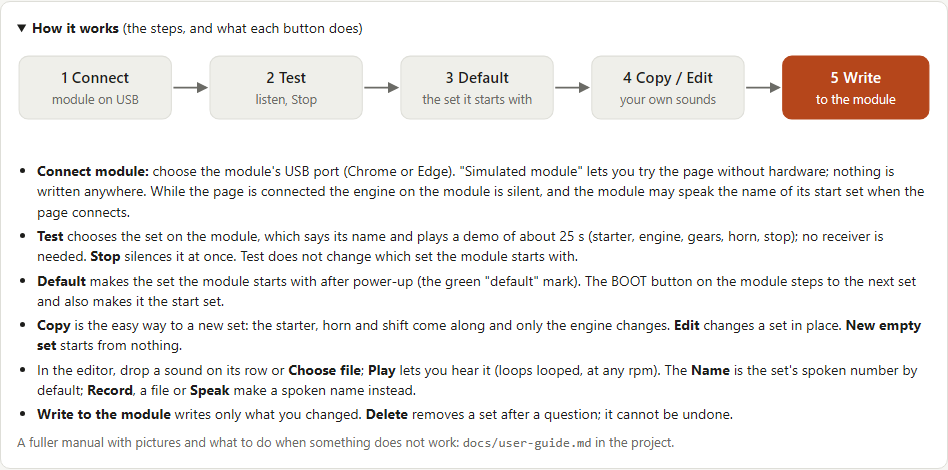
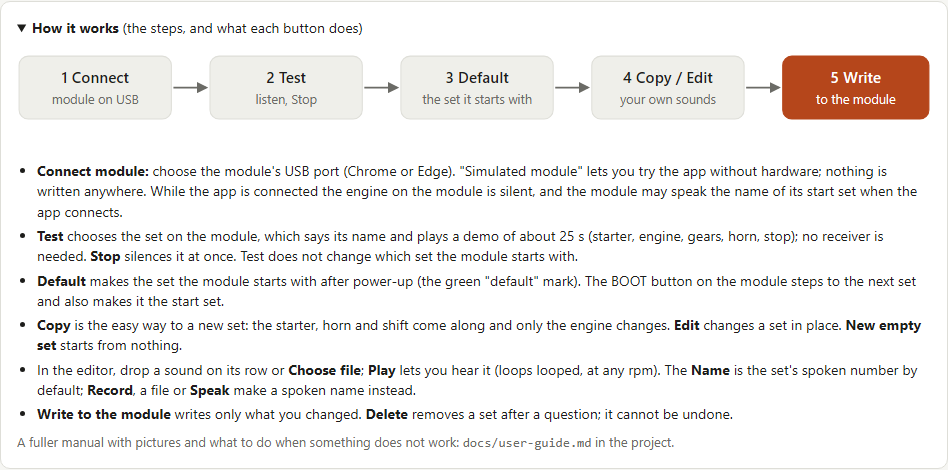
Call it the web app in the user guide and in the app's own texts

Changed region(s): [[0.2141, 0.3574, 0.9789, 0.417], [0.0306, 0.4468, 0.153, 0.4766]]

diff --git a/web/index.html b/web/index.html
@@ -81,7 +81,7 @@ details.guide li { margin-bottom: 4px; }
   <p class="lead">Sound sets for the cyberbrick_sound module: see what is on it, try one, change or add a set. Chrome or
     Edge on a computer, the module on USB.</p>
 
-  <div id="noSerial" class="notice hidden">This page needs Chrome or Edge on a computer.</div>
+  <div id="noSerial" class="notice hidden">This app needs Chrome or Edge on a computer.</div>
 
   <section>
     <div class="row">
@@ -90,7 +90,7 @@ details.guide li { margin-bottom: 4px; }
       <button id="btnDisconnect" class="hidden">Disconnect</button>
       <span id="connStatus" class="status muted">Not connected.</span>
     </div>
-    <div class="hint" style="margin-top:8px">While the page talks to the module, the engine on the module is silent; it
+    <div class="hint" style="margin-top:8px">While the app talks to the module, the engine on the module is silent; it
       comes back a few seconds after the last action.</div>
   </section>
 
@@ -110,8 +110,8 @@ details.guide li { margin-bottom: 4px; }
     </svg>
     <ul>
       <li><strong>Connect module:</strong> choose the module's USB port (Chrome or Edge). "Simulated module" lets you
-        try the page without hardware; nothing is written anywhere. While the page is connected the engine on the module
-        is silent, and the module may speak the name of its start set when the page connects.</li>
+        try the app without hardware; nothing is written anywhere. While the app is connected the engine on the module
+        is silent, and the module may speak the name of its start set when the app connects.</li>
       <li><strong>Test</strong> chooses the set on the module, which says its name and plays a demo of about 25 s
         (starter, engine, gears, horn, stop); no receiver is needed. <strong>Stop</strong> silences it at once. Test
         does not change which set the module starts with.</li>
@@ -137,7 +137,7 @@ details.guide li { margin-bottom: 4px; }
       <li><strong>Format on the module:</strong> WAV (<code>.wav</code>), PCM, 22 050 Hz, 16 bit, mono, with fixed names:
         <code>name.wav</code>, <code>start.wav</code>, <code>horn.wav</code>, <code>shift.wav</code>, and for a sample set
         <code>idle.wav</code> and <code>loaded.wav</code>, plus <code>set.json</code> with the parameters, all in the
-        folder <code>NN_description</code> (NN = the number). This page writes all of that itself: you can drop WAV,
+        folder <code>NN_description</code> (NN = the number). This app writes all of that itself: you can drop WAV,
         MP3, OGG, FLAC or M4A at any rate, stereo or mono, under any name; it is converted and renamed. Best source:
         WAV or FLAC at 44.1 or 48 kHz (MP3 adds its own noise).</li>
       <li><strong>Lengths:</strong> name 1-2 s, starter 0.5-2 s, horn 1-2 s, shift 0.1-1 s, idle loop 1-6 s, loaded
@@ -244,7 +244,7 @@ const SPEAKER_BOX_EQ = [                  // LAB_EQ (firmware/include/engine_lab
   [0.976836103, -1.89944636, 0.930287778, -1.89944636, 0.907123882],
   [1.10499333, -0.104702938, 0.625197825, -0.104702938, 0.730191158]];
 const SOUNDS = [
-  { key: "name", label: "Name", hint: "spoken once when the set is chosen. By default only its number (\"Eight.\", from the page, nothing to download); a spoken name (\"Eight. Detroit sixty.\") you can record, choose as a file or make with Speak, 1-2 s. Silence at the ends is cut, the level set to -1 dB.", min: 0.3, max: 3, rec: true, name: true },
+  { key: "name", label: "Name", hint: "spoken once when the set is chosen. By default only its number (\"Eight.\", from the app, nothing to download); a spoken name (\"Eight. Detroit sixty.\") you can record, choose as a file or make with Speak, 1-2 s. Silence at the ends is cut, the level set to -1 dB.", min: 0.3, max: 3, rec: true, name: true },
   { key: "start", label: "Starter", hint: "the starter cranking, without the engine catching; 0.5-2 s. The engine catches by itself at its end.", min: 0.3, max: 3 },
   { key: "horn", label: "Horn", hint: "played as a loop while the horn is held, about 1-2 s; the end must join the start.", min: 0.2, max: 4, loop: true },
   { key: "shift", label: "Shift", hint: "one gear change, 0.1-1 s.", min: 0.05, max: 1.5 },
@@ -1016,7 +1016,7 @@ function renderSounds() {
     file.onchange = () => file.files[0] && loadFile(def, file.files[0]);
     const b = (label, fn, dis) => { const x = document.createElement("button"); x.className = "small"; x.textContent = label; x.onclick = fn; x.disabled = !!dis; ctl.appendChild(x); return x; };
     b("Choose file", () => file.click());
-    if (def.name && window.NUMBER_NAMES) b("Number only", () => useNumber(), false).title = "the spoken number of the set, from this page (nothing to download)";
+    if (def.name && window.NUMBER_NAMES) b("Number only", () => useNumber(), false).title = "the spoken number of the set, from this app (nothing to download)";
     if (def.rec) { const rb = b("Record", () => record(def, rb)); }
     const sb = def.name ? speakBox(def) : null;
     if (sb) ctl.appendChild(sb.go);   // Speak sits with the other buttons; its text is below
@@ -1062,7 +1062,7 @@ const PIPER_ABOUT_HTML =
   "text-to-speech (that repository is archived since October 2025; development moved to " +
   "<a href='https://github.com/OHF-Voice/piper1-gpl' target='_blank' rel='noopener'>OHF-Voice/piper1-gpl</a>), running in this browser through " +
   "<a href='https://github.com/Mintplex-Labs/piper-tts-web' target='_blank' rel='noopener'>piper-tts-web</a> 1.0.4 (Mintplex Labs, MIT licence).</p>" +
-  "<p style='margin:4px 0'>The first Speak downloads from the internet, from third parties, not from this page:</p>" +
+  "<p style='margin:4px 0'>The first Speak downloads from the internet, from third parties, not from this app:</p>" +
   "<ul style='margin:0;padding-left:20px'>" +
   "<li>the library and the phonemizer <a href='https://www.npmjs.com/package/@diffusionstudio/piper-wasm' target='_blank' rel='noopener'>piper-wasm</a> " +
   "1.0.0 (Diffusion Studio; a WebAssembly build of Piper's phonemizer with " +

diff --git a/docs/user-guide.md b/docs/user-guide.md
@@ -1,13 +1,13 @@
 # Engine sound sets: user guide
 
-How to see, try, change and add the engine sounds of the cyberbrick_sound module with the web page
-(`web/index.html`). The pictures are made by `tools/make_guide_images.py` from the page's simulated module, so they
-can be remade after any change of the page. How the sets and the protocol work inside: `user-sounds.md`.
+How to see, try, change and add the engine sounds of the cyberbrick_sound module with the web app
+(`web/index.html`, a web app). The pictures are made by `tools/make_guide_images.py` from the app's simulated module, so they
+can be remade after any change of the app. How the sets and the protocol work inside: `user-sounds.md`.
 
 ## What you need
 
 - A computer with **Chrome or Edge** (version 89 or newer; Windows, macOS, Linux or ChromeOS). Safari, Firefox and
-  browsers on phones and tablets have no Web Serial, so the page cannot reach the module there.
+  browsers on phones and tablets have no Web Serial, so the app cannot reach the module there.
 - The module with the **`engine_sets` firmware**, connected to the computer with a USB-C cable.
 - Open `web/index.html` in the browser (from disk, or from a web server when the project publishes it).
 
@@ -20,17 +20,17 @@ make your own. 5. **Write** it to the module.
 
 ## 1. Connect
 
-![Start of the page](guide/02-start.png)
+![Start of the app](guide/02-start.png)
 
 Press **Connect module** and choose the module's USB port in the browser's list (on Windows it is named like
 "USB Serial Device (COM5)"). When it works the line next to the button reads "Connected, firmware 0.1.0+..., built
 ..." and the list of sets appears. The firmware version is also under the list.
 
-**Simulated module** lets you try the whole page without hardware: it holds the default sets, everything works, and
-nothing is written anywhere. Changes are gone when you close the page.
+**Simulated module** lets you try the whole app without hardware: it holds the default sets, everything works, and
+nothing is written anywhere. Changes are gone when you close the app.
 
-While the page is connected the engine on the module is **silent** and the BOOT button does nothing; the engine
-comes back a few seconds after your last action. The module may restart when the page connects, and then speaks the
+While the app is connected the engine on the module is **silent** and the BOOT button does nothing; the engine
+comes back a few seconds after your last action. The module may restart when the app connects, and then speaks the
 number of the set it starts with: that is normal.
 
 ## 2. The list of sets
@@ -60,15 +60,15 @@ The small green dot after a name means that this set is the one chosen on the mo
 Open **Copy** (or **New empty set**, or **Edit**). In the editor:
 
 - **Number**: the place in the order of the BOOT button; only the free numbers are offered.
-- **Name**: what the page shows. The folder name is made from it and can be changed.
+- **Name**: what the app shows. The folder name is made from it and can be changed.
 - **Type**: **sample** (your recordings: an idle loop and a loaded loop, played faster with the throttle) or
   **synth** (one of the firmware's synthesised engines with its preset). Everything else (starter, horn, shift,
   name) works the same in both.
 - **Sounds**: drop a sound file on its row, or press **Choose file**. Any format the browser can play (WAV, MP3, OGG,
   FLAC, M4A, any rate, stereo or mono) is converted to what the module needs (22 050 Hz, 16 bit, mono). **Play**
-  lets you hear it; loops play looped and, for the engine loops, at any rpm of the slider. The page warns about a
+  lets you hear it; loops play looped and, for the engine loops, at any rpm of the slider. The app warns about a
   length outside the usual range, clipping and a very quiet sound. What makes a good loop: the part "What a good
-  sample is like" on the page.
+  sample is like" on the app.
 - **Parameters**: loudness, the wind-down time after the ignition goes off, the virtual gearbox, the playback rate
   range, the loaded loop's speed and gain, and the **speaker EQ** (none, the one tuned for the 30 ml box, or the
   one already in the set).
@@ -80,13 +80,13 @@ set is in the list; use **Test** to hear it on the module.
 
 ![The Name row](guide/05-name-row.png)
 
-The name is spoken once, when the set is chosen. **By default it is only the number** ("Eight."), taken from the page,
+The name is spoken once, when the set is chosen. **By default it is only the number** ("Eight."), taken from the app,
 with nothing to download, and it changes by itself when you change the number. For a spoken name there are three
 ways, all in the Name row:
 
-- **Record**: say it into the microphone (the page cuts the silence and sets the level).
+- **Record**: say it into the microphone (the app cuts the silence and sets the level).
 - **Choose file**: a recording you made elsewhere.
-- **Speak**: type the text ("Eight. Detroit sixty.") and the page makes it with the Piper voice. The first time it
+- **Speak**: type the text ("Eight. Detroit sixty.") and the app makes it with the Piper voice. The first time it
   **downloads** the voice (about 63 MB) and its programs from the internet, after asking; the text stays on your
   computer. English; write numbers as words. The part "What is downloaded and used" under the box names the
   projects and their licences.
@@ -99,17 +99,17 @@ original: press **Number only** (or make a new name) so that it says its own num
 
 | What you see | What to do |
 |---|---|
-| "This page needs Chrome or Edge on a computer." | Open the page in Chrome or Edge on a computer. |
+| "This app needs Chrome or Edge on a computer." | Open the app in Chrome or Edge on a computer. |
 | The module is not in the list of ports | Check the cable (some are charge-only) and try another USB port. |
 | "No port chosen." | You closed the list without choosing; press Connect module again. |
-| The port cannot be opened | Another program or browser tab holds it (a serial monitor, an upload from PlatformIO, a second copy of the page). Close it, then connect again. The same applies the other way: flashing the firmware from the computer fails while the page is connected, so press Disconnect first. |
+| The port cannot be opened | Another program or browser tab holds it (a serial monitor, an upload from PlatformIO, a second copy of the app). Close it, then connect again. The same applies the other way: flashing the firmware from the computer fails while the app is connected, so press Disconnect first. |
 | "the module does not answer (is the engine_sets firmware on it?)" | The module has another firmware. Flash `engine_sets` (`pio run -e engine_sets -t upload`, and `-t uploadfs` for the default sets), see `user-sounds.md`, "Trying it". |
 | "Not enough room" | Delete a set you do not need, or use shorter sounds. A set takes about 0.2-0.6 MB. |
 | A write stops half way | Press Write to the module again; the file is replaced only when it has arrived whole. |
 | Speak does not work | It needs the internet and a browser that can run it (Chrome, Edge). Without it use Number only, Record or Choose file. |
-| The module speaks a set name when the page connects | Normal: the module restarts when the port is opened and says the number of the set it starts with. |
+| The module speaks a set name when the app connects | Normal: the module restarts when the port is opened and says the number of the set it starts with. |
 
-## What is not in the page yet
+## What is not in the app yet
 
-Checking whether the module's firmware is the newest, and updating it from the page (planned, see `roadmap.md`),
+Checking whether the module's firmware is the newest, and updating it from the app (planned, see `roadmap.md`),
 and help with finding the loop points of a recording.
